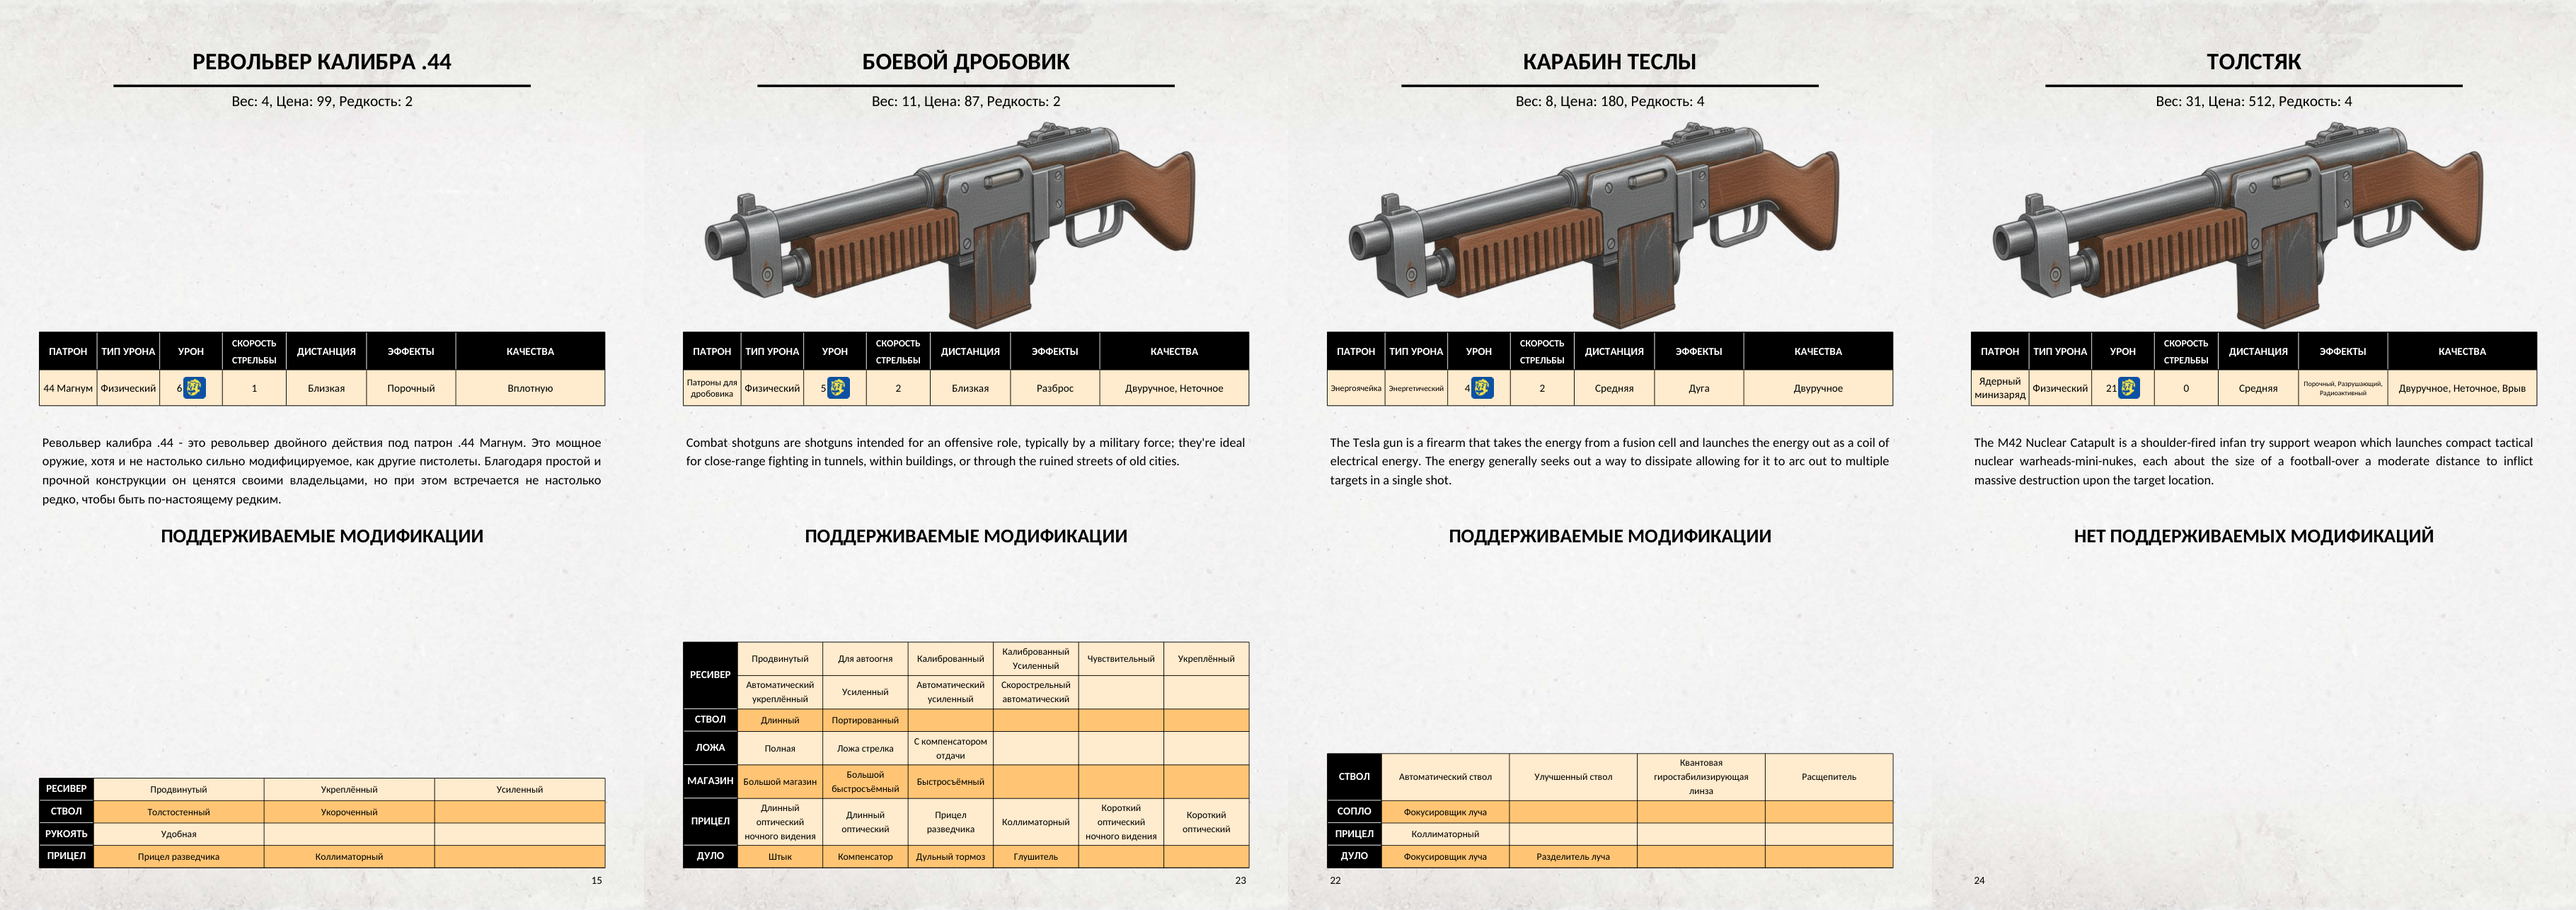
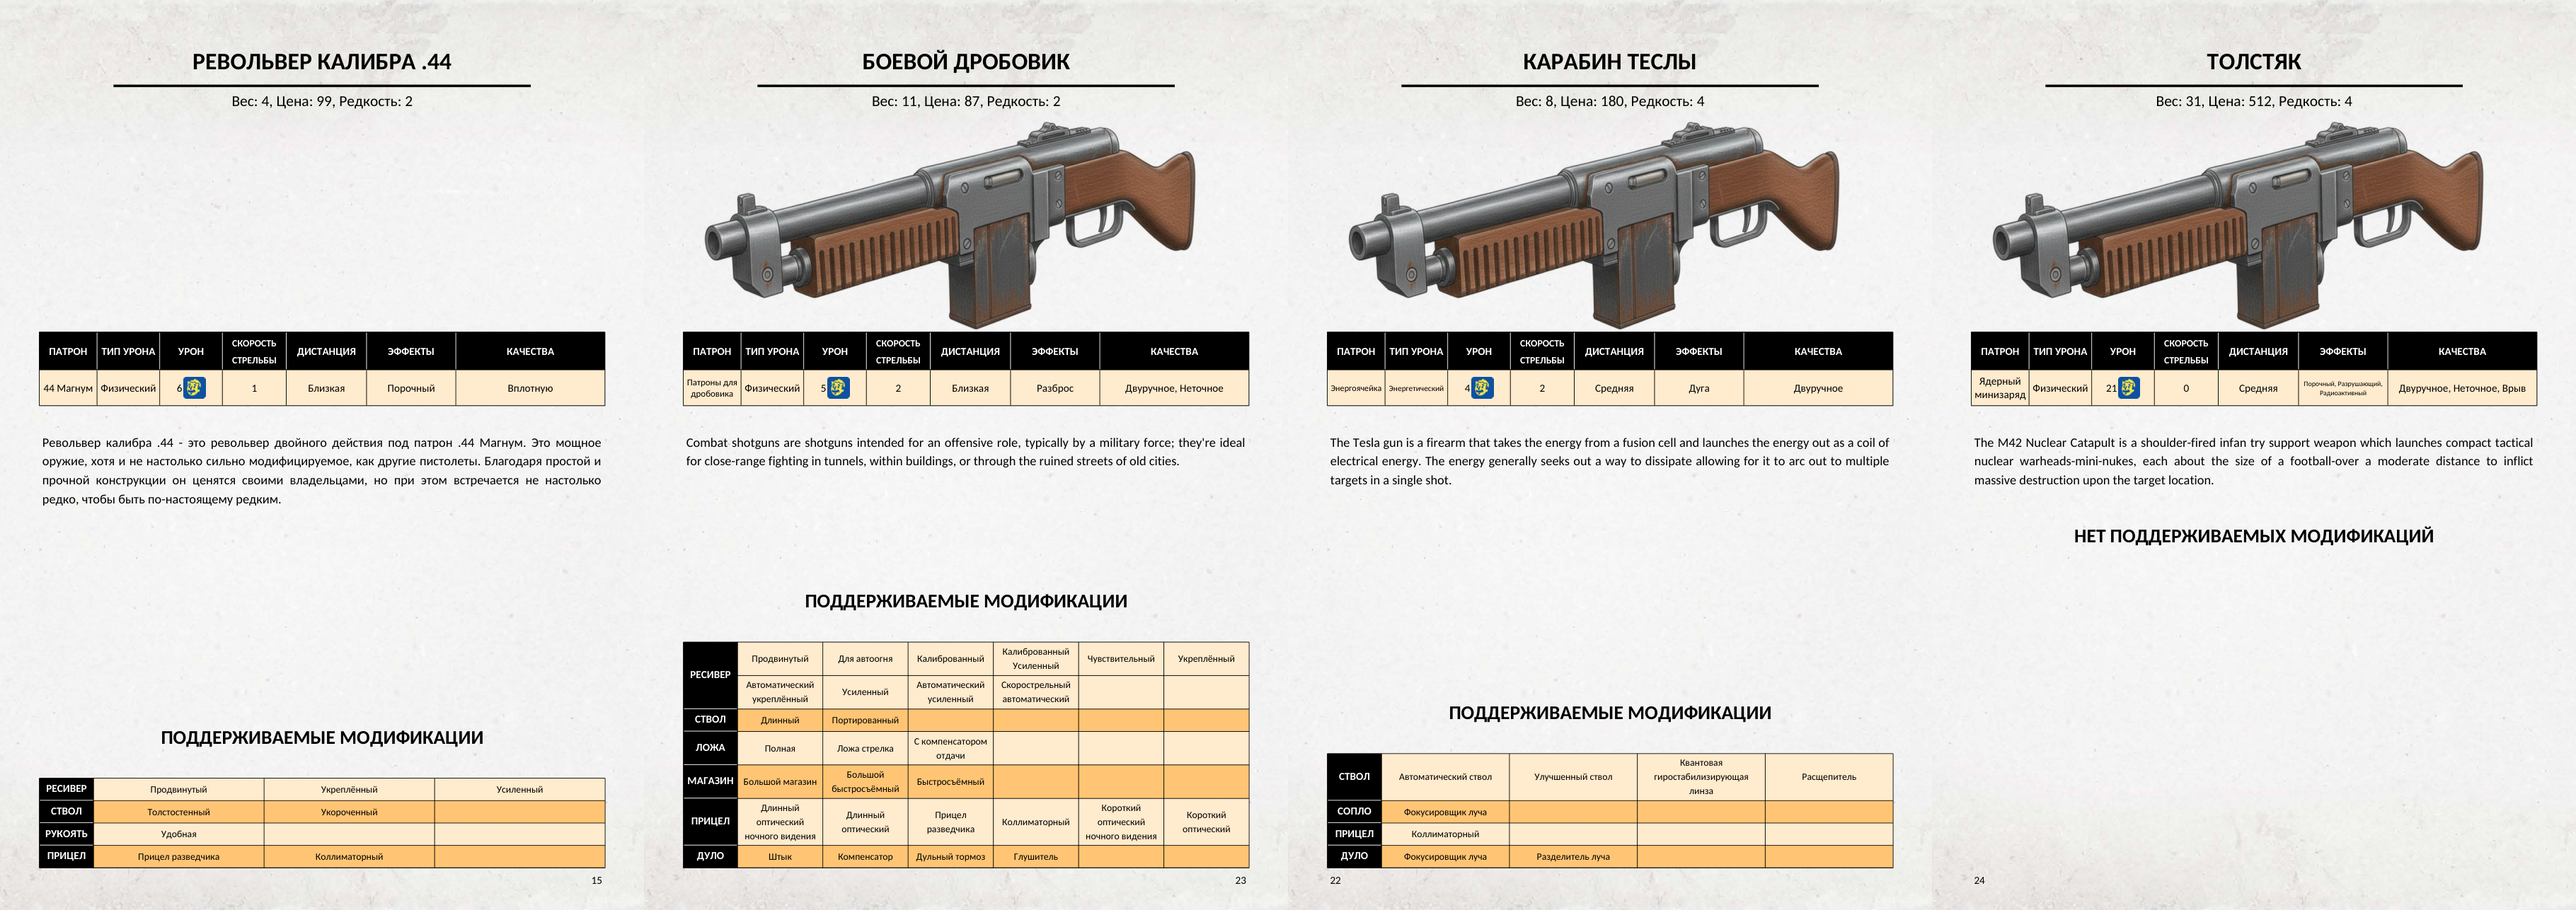
Weapon PDF: heading follows the mods table

diff --git a/tools/test_weapon2pdf.py b/tools/test_weapon2pdf.py
@@ -182,6 +182,36 @@ class RenderTests(unittest.TestCase):
         self.assertAlmostEqual(bottom, w.MODS_BOTTOM, delta=0.6)
         self.assertLess(bottom - top, 2 * w.MODS_MIN_ROW)
 
+    def test_heading_follows_a_short_table(self):
+        card = base_card()
+        card["mods"] = [{"slot": "РЕСИВЕР", "items": ["Один"]}]
+        page = self.render(card)[0]
+        ys = [s["bbox"][1] for b in page.get_text("dict")["blocks"]
+              for line in b.get("lines", []) for s in line["spans"]
+              if "ПОДДЕРЖИВАЕМЫЕ" in s["text"]]
+        self.assertTrue(ys)
+        heading_top = min(ys)
+        self.assertGreater(heading_top, w.MODS_TOP)
+        self.assertAlmostEqual(heading_top + w.MODS_HEADING_GAP,
+                               w.MODS_BOTTOM - w.MODS_MIN_ROW, delta=4)
+
+    def test_heading_is_always_the_same_gap_above_the_table(self):
+        for items in (["Один"],
+                      [f"Мод номер {i}" for i in range(8)]):
+            card = base_card()
+            card["mods"] = [{"slot": "РЕСИВЕР", "items": items}]
+            page = self.render(card)[0]
+            heading_top = min(
+                s["bbox"][1] for b in page.get_text("dict")["blocks"]
+                for line in b.get("lines", []) for s in line["spans"]
+                if "ПОДДЕРЖИВАЕМЫЕ" in s["text"])
+            table_top = min(
+                it["rect"].y0 for it in page.get_drawings()
+                if it["type"] == "s" and it["rect"].width > 400
+                and it["rect"].y0 > w.MODS_TOP - 20)
+            self.assertAlmostEqual(heading_top + w.MODS_HEADING_GAP,
+                                   table_top, delta=2)
+
     def test_page_number_side_alternates(self):
         even = self.render(base_card())[0]
         odd_card = base_card()

diff --git a/tools/weapon2pdf.py b/tools/weapon2pdf.py
@@ -75,6 +75,7 @@ DESC_LEADING = 17.4
 
 MODS_HEADING = "ПОДДЕРЖИВАЕМЫЕ МОДИФИКАЦИИ"
 MODS_HEADING_TOP = 488.29
+MODS_HEADING_GAP = 45.36  # heading top -> table top on the Publisher pages
 MODS_HEADING_SIZE = 18.0
 
 MODS_TOP = 533.65
@@ -540,9 +541,6 @@ def draw_mods(c, card) -> None:
                          "Carlito-Bold", MODS_HEADING_SIZE)
         return
 
-    draw_center_line(c, MODS_HEADING_TOP, MODS_HEADING, "Carlito-Bold",
-                     MODS_HEADING_SIZE)
-
     rows, total, ncols = mods_layout(card)
     edges = mods_edges(ncols)
     avail = MODS_BOTTOM - top
@@ -555,6 +553,9 @@ def draw_mods(c, card) -> None:
     # table always ends at MODS_BOTTOM no matter how many mods there are
     top = MODS_BOTTOM - sum(r["h"] for r in rows)
     bottom = MODS_BOTTOM
+    # the heading follows the table, so short tables do not leave a hole
+    draw_center_line(c, top - MODS_HEADING_GAP, MODS_HEADING, "Carlito-Bold",
+                     MODS_HEADING_SIZE)
 
     # category fills
     y = top

diff --git a/docs/weapon-pdf.md b/docs/weapon-pdf.md
@@ -25,7 +25,7 @@ Companion JSON  →  tools/weapons2cards.py  →  карточка JSON
 | Таблица статов | верх 307.39, шапка 34.97, строка 33.24 |
 | Колонки статов | 36.31 / 89.76 / 147.74 / 205.71 / 264.80 / 339.03 / 421.60 / 559.58 |
 | Описание | x 39.12 … 556.05, верх 404.57, 12 pt / 17.4 pt, по ширине |
-| Заголовок модов | верх 488.29, 18 pt Bold, по центру |
+| Заголовок модов | 45.36 pt над таблицей (в книге — верх 488.29), 18 pt Bold, по центру |
 | Таблица модов | верх 533.65, низ 803.35, метка 50.1 pt + 6 колонок |
 | Колонки модов | 36.44 / 86.54 / 167.80 / 244.00 / 326.04 / 404.58 / 481.17 / 559.71 |
 | Номер страницы | верх 810.91, 9.96 pt; чётные — слева, нечётные — справа |
@@ -76,6 +76,9 @@ Companion JSON  →  tools/weapons2cards.py  →  карточка JSON
 * Таблица строится от нижней границы вверх: низ таблицы всегда на 803.35 pt,
   верх — настолько выше, насколько хватает строк. Поэтому у оружия с одним
   модом под заголовком остаётся пустое место, зато таблица не раздувается.
+* Заголовок «ПОДДЕРЖИВАЕМЫЕ МОДИФИКАЦИИ» стоит в 45.36 pt над таблицей:
+  при полной таблице он оказывается на книжном месте (488.29), у короткой
+  таблицы опускается вместе с ней, чтобы не оставалось дыры.
 * Если строки не помещаются в отведённую высоту (533.65–803.35), они
   сжимаются пропорционально и печатается предупреждение.
 * Если модов нет вообще — вместо заголовка выводится одна строка
